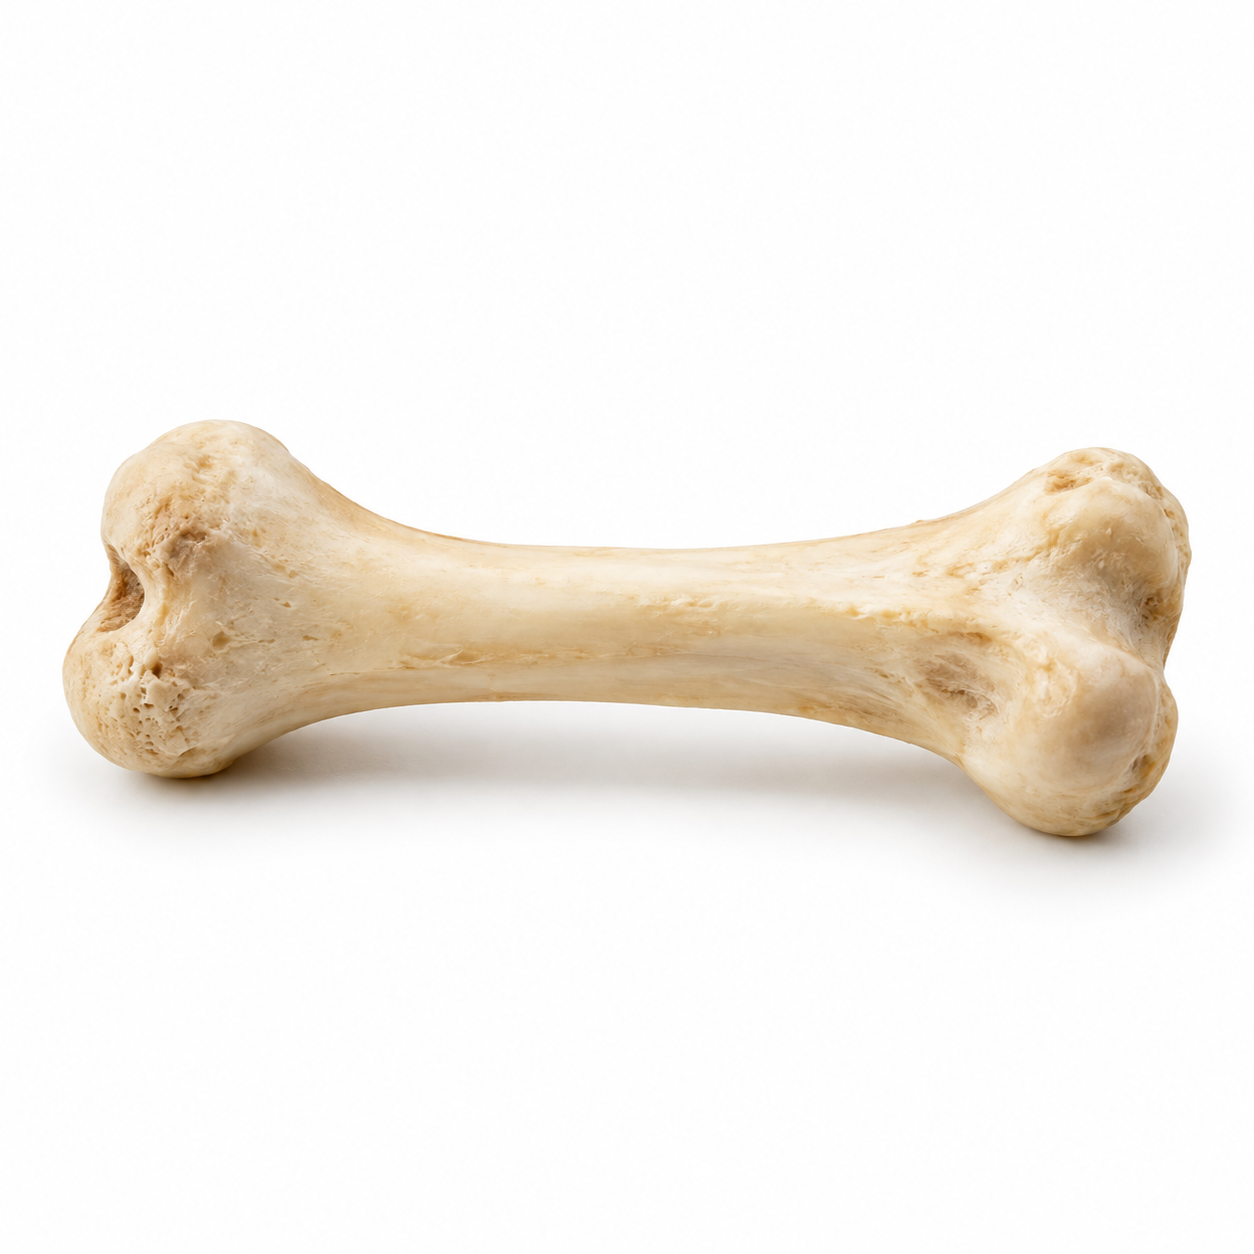
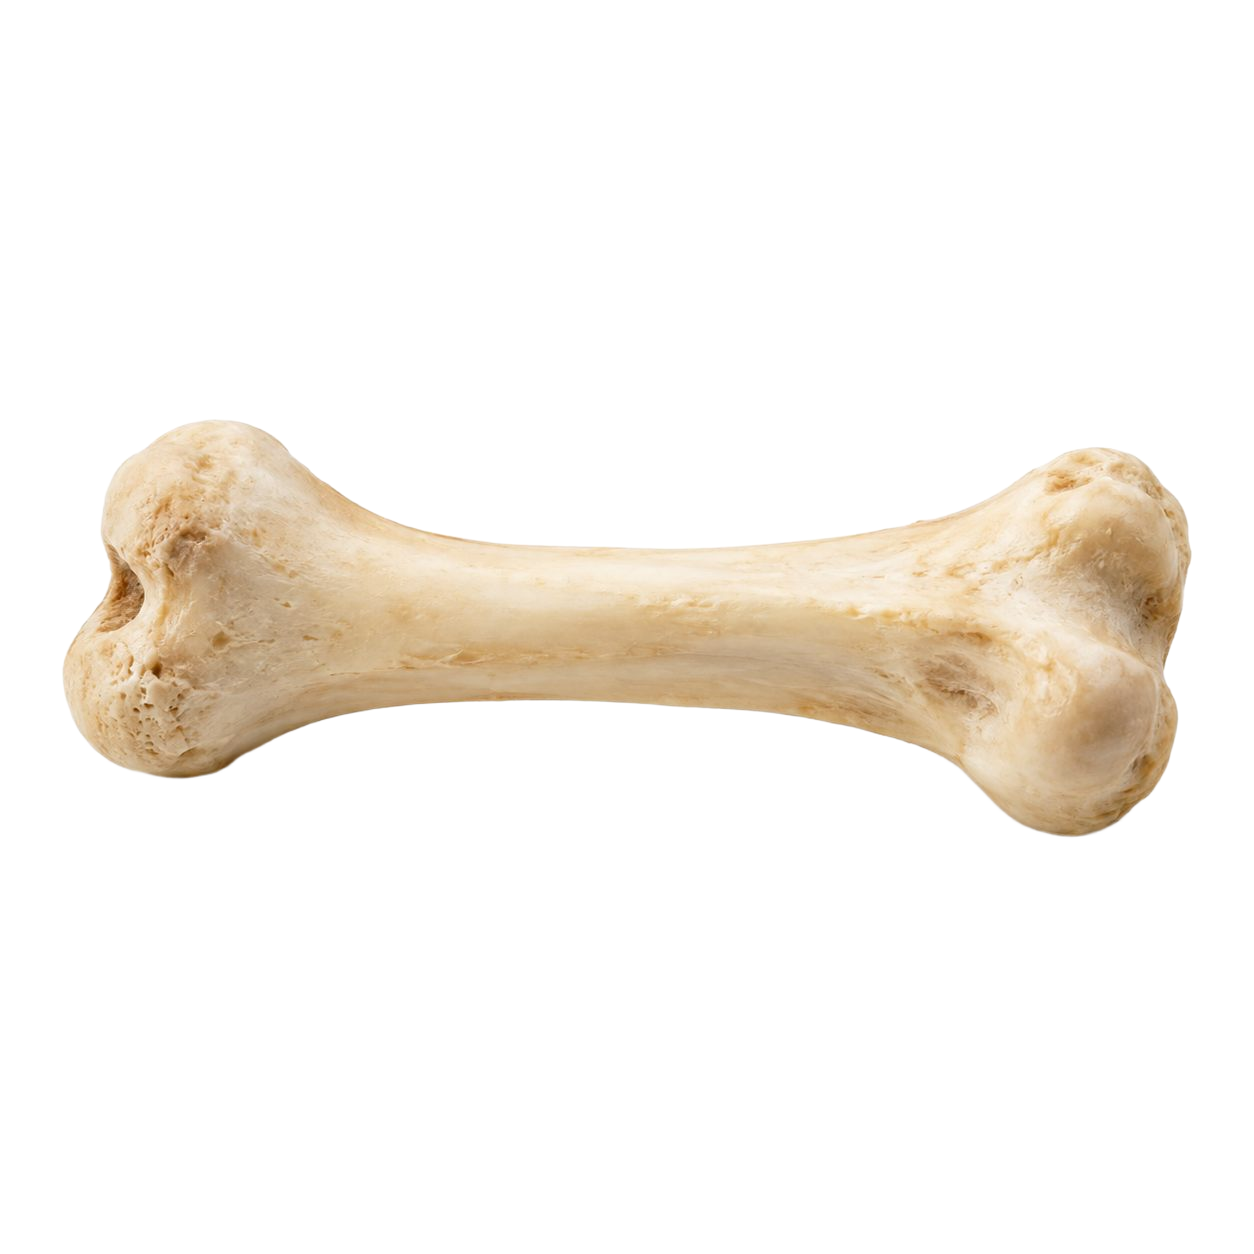
Convert JPG images to transparent PNGs and update AGENTS.md

Changed region(s): [[0.0622, 0.5598, 0.9641, 0.7153]]

diff --git a/app.js b/app.js
@@ -8,42 +8,42 @@ const characters = [
   },
   {
     name: "Birendra",
-    image: "/assets/birendra.jpg",
+    image: "/assets/birendra.png",
     alt: "Birendra, a cold glass of beer",
   },
   {
     name: "Ganendra",
-    image: "/assets/ganendra.jpg",
+    image: "/assets/ganendra.png",
     alt: "Ganendra, a man safely holding a brushed steel pistol pointed down",
   },
   {
     name: "Bonendra",
-    image: "/assets/bonendra.jpg",
+    image: "/assets/bonendra.png",
     alt: "Bonendra, a bone",
   },
   {
     name: "Dogendra",
-    image: "/assets/dogendra.jpg",
+    image: "/assets/dogendra.png",
     alt: "Dogendra, a dog raising one paw at a doorbell camera",
   },
   {
     name: "Fishendra",
-    image: "/assets/fishendra.jpg",
+    image: "/assets/fishendra.png",
     alt: "Fishendra, a gorilla-faced fish swimming underwater",
   },
   {
     name: "Dipendra",
-    image: "/assets/dipendra.jpg",
+    image: "/assets/dipendra.png",
     alt: "Dipendra, a bowl of red dipping sauce",
   },
   {
     name: "Rabindra",
-    image: "/assets/rabindra.jpg",
+    image: "/assets/rabindra.png",
     alt: "Rabindra, a pink rubber eraser",
   },
   {
     name: "Goatendra",
-    image: "/assets/goatendra.jpg",
+    image: "/assets/goatendra.png",
     alt: "Goatendra, LeBron James staring directly at the camera",
   },
   {
@@ -93,27 +93,27 @@ const characters = [
   },
   {
     name: "Calendra",
-    image: "/assets/calendra.jpg",
+    image: "/assets/calendra.png",
     alt: "Calendra, a simple wall calendar",
   },
   {
     name: "Bartendra",
-    image: "/assets/bartendra.jpg",
+    image: "/assets/bartendra.png",
     alt: "Bartendra, a professional bartender shaking a metallic cocktail shaker",
   },
   {
     name: "Deffendra",
-    image: "/assets/deffendra.jpg",
+    image: "/assets/deffendra.png",
     alt: "Deffendra, a medieval knight's large metal shield",
   },
   {
     name: "Pretendra",
-    image: "/assets/pretendra.jpg",
+    image: "/assets/pretendra.png",
     alt: "Pretendra, a classic Groucho Marx disguise",
   },
   {
     name: "Yogendra",
-    image: "/assets/yogendra.jpg",
+    image: "/assets/yogendra.png",
     alt: "Yogendra, a person stretching in an advanced yoga pose",
   },
   {
@@ -134,7 +134,7 @@ const characters = [
   {
     name: "Peakendra",
     displayName: "Absolute Peakendra",
-    image: "/assets/peakendra-v2.jpg",
+    image: "/assets/peakendra-v2.png",
     alt: "Peakendra, a person holding back tears because it's so peak",
   },
 ];

diff --git a/AGENTS.md b/AGENTS.md
@@ -37,6 +37,9 @@ whose name becomes a paragraph wearing a fake moustache.
 - Every image must be a true PNG with a transparent background so the subject
   blends seamlessly into the white page. No solid, colored, or gradient
   backgrounds behind the subject — it should float directly on white.
+  When removing backgrounds (e.g. from a generated JPG), extract only the alpha
+  transparency mask and apply it to the original untouched RGB channels. Do not
+  allow background removal tools to modify the original image's colors or details.
 - Use clean, realistic imagery with one obvious subject and no embedded text,
   logos, borders, or watermarks.
 - Make controls responsive, keyboard-accessible, and respectful of reduced
